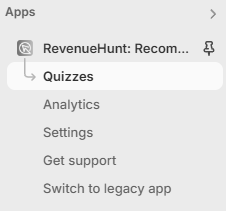
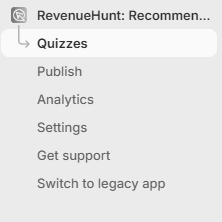
docs: update quiz builder documentation with new images and enhanced instructions for the Publish tab, including terminology adjustments for email templates and additional guidance on quiz publishing

diff --git a/docs/reference/dashboard.md b/docs/reference/dashboard.md
@@ -30,6 +30,8 @@ On the dashboard, you'll find all the quizzes that you create.
 
     **Quizzes** - The dashboard of the app where you can find all the quizzes created.
 
+    **Publish** - Opens the [Publish](/reference/quiz-builder/share-publish/) instructions for how to add the quiz to the webstie.
+
     **Analytics** - Opens the [Analytics tab](/reference/quiz-builder/metrics/#analytics) where you can check the quiz performance.
 
     **Settings** - Opens the [App Settings](/reference/app-settings/) menu.
@@ -231,6 +233,7 @@ On the dashboard, you'll find all the quizzes that you create.
     ![manual_shopifyV2_quizmanagementoptions.png](/images/manual_shopifyV2_quizmanagementoptions.png)
 
     - **Preview** - Opens the Quiz Preview for testing.
+    - **Publish** - Opens the [Publish](/reference/quiz-builder/share-publish/) instructions that explain how to put the quiz on the website.
     - **Quiz Settings** - Opens the [Quiz Settings](/reference/quiz-builder/quiz-settings/) for that quiz.
     - **Integrations** - Opens the [Integrations](/reference/quiz-builder/share-publish/) page for that quiz.
     - **Responses** - Opens the [Responses](/reference/quiz-builder/metrics/#responses) page where it's possible to view, downalod and troubleshoot response for that quiz.

diff --git a/docs/reference/quiz-builder/share-publish.md b/docs/reference/quiz-builder/share-publish.md
@@ -8,13 +8,19 @@
 
     For step-by-step instructions check [How to Publish the Quiz](/how-to-guides/publish-quiz/) guide.
 
-=== "Shopify V2" 
+=== "Shopify V2"
 
-    To add the quiz to your store, you have to create your quiz first. Then, in Shopify go to `Online Store > Theme` and click ` Customize`.
+    ![/images/manual_shopifyV2_quizbuilder_share_publish_publishinthemenu.png](/images/manual_shopifyV2_quizbuilder_share_publish_publishinthemenu.png)
 
-    ![manual_shopifyV2_quizbuilder_share_publish_onlinestore](/images/manual_shopifyV2_quizbuilder_share_publish_onlinestore.png)
+    To add the quiz to your store, go the `Publish` tab from your [Dashboard](/reference/dashboard/) side menu.
     
-    For step-by-step instructions check [How to Publish the Quiz](/how-to-guides/publish-quiz/) guide.
+    ![manual_shopifyV2_quizbuilder_share_publish_publishpage](/images/manual_shopifyV2_quizbuilder_share_publish_publishpage.png)
+
+    There, you will find step-by-step instructions on how to publish the default quiz onto your website.
+
+    !!! tip
+    
+        You can also check our [How to Publish the Quiz](/how-to-guides/publish-quiz/) guide.
 
 === "WooCommerce"
 

diff --git a/docs/reference/quiz-builder/notifications.md b/docs/reference/quiz-builder/notifications.md
@@ -228,7 +228,11 @@
 
     *Email TO:* - Add an email address to which the notification should be sent.
 
-    *HTML email template* - Add HTML email template. The template can be built based on the Metadata provided.
+    *Email liquid template* - Add liquid email template. The template can be built based on the Metadata provided.
+
+    *Useful code snippets:* - Click on an item below  to copy the code snippets to customize the Liquid email template.
+
+    *Personal information template* - Lists all the personal infomation provided by the user.
 
 === "WooCommerce"
 
